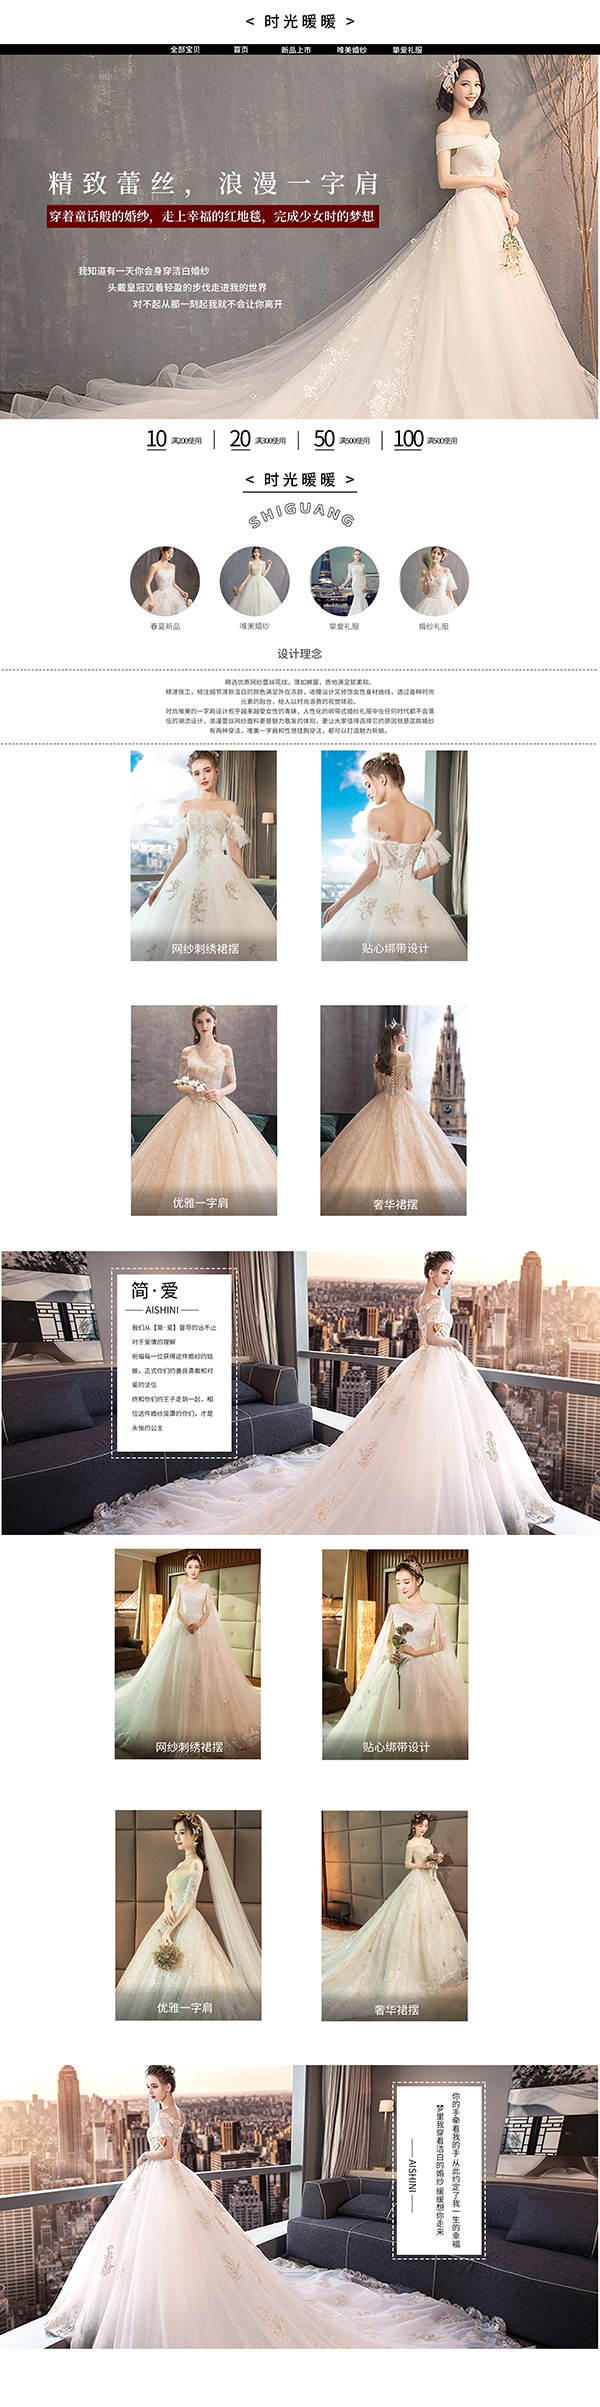
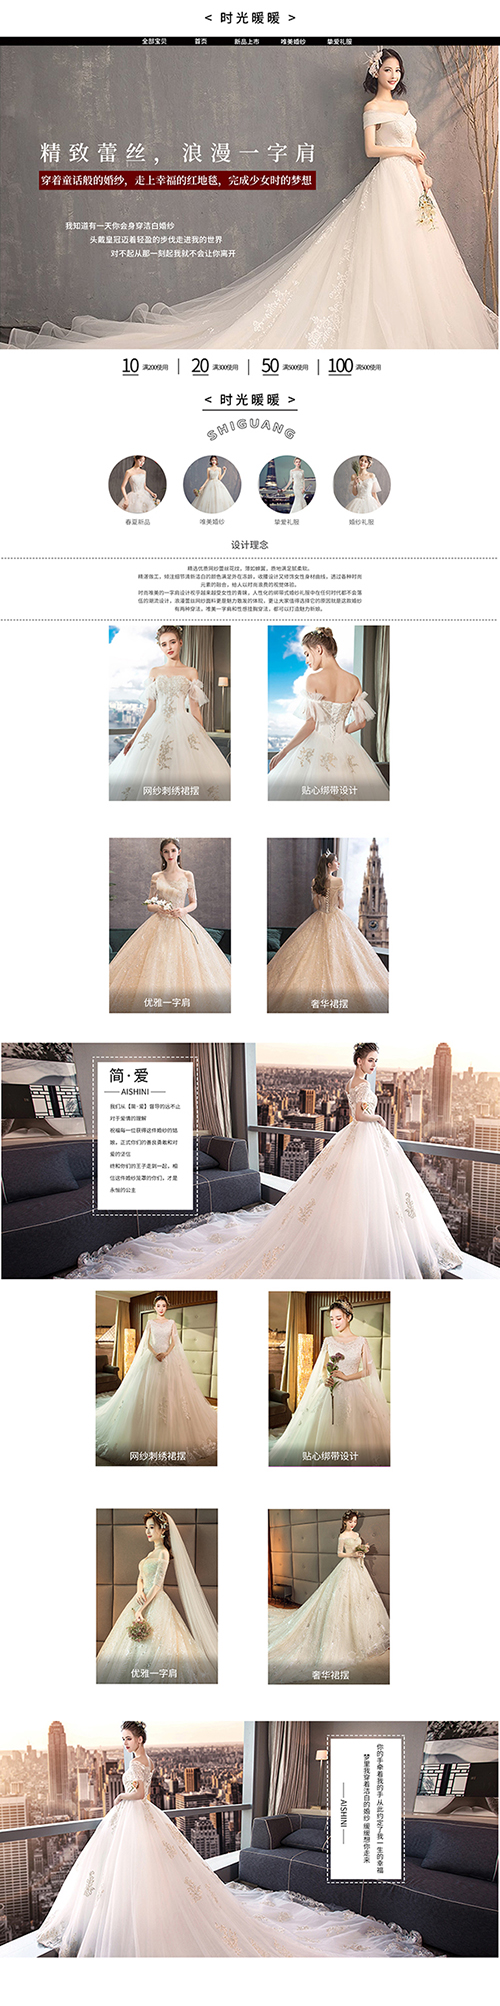
first commit

diff --git a/css/style.css b/css/style.css
@@ -39,10 +39,10 @@ p {
     z-index: 100;
 }
 
-.header .nav .navInner {
+/* .header .nav .navInner {
     max-width: 1200px;
     margin: 0 auto;
-}
+} */
 
 .header .nav .navInner .menu {
     float: right;
